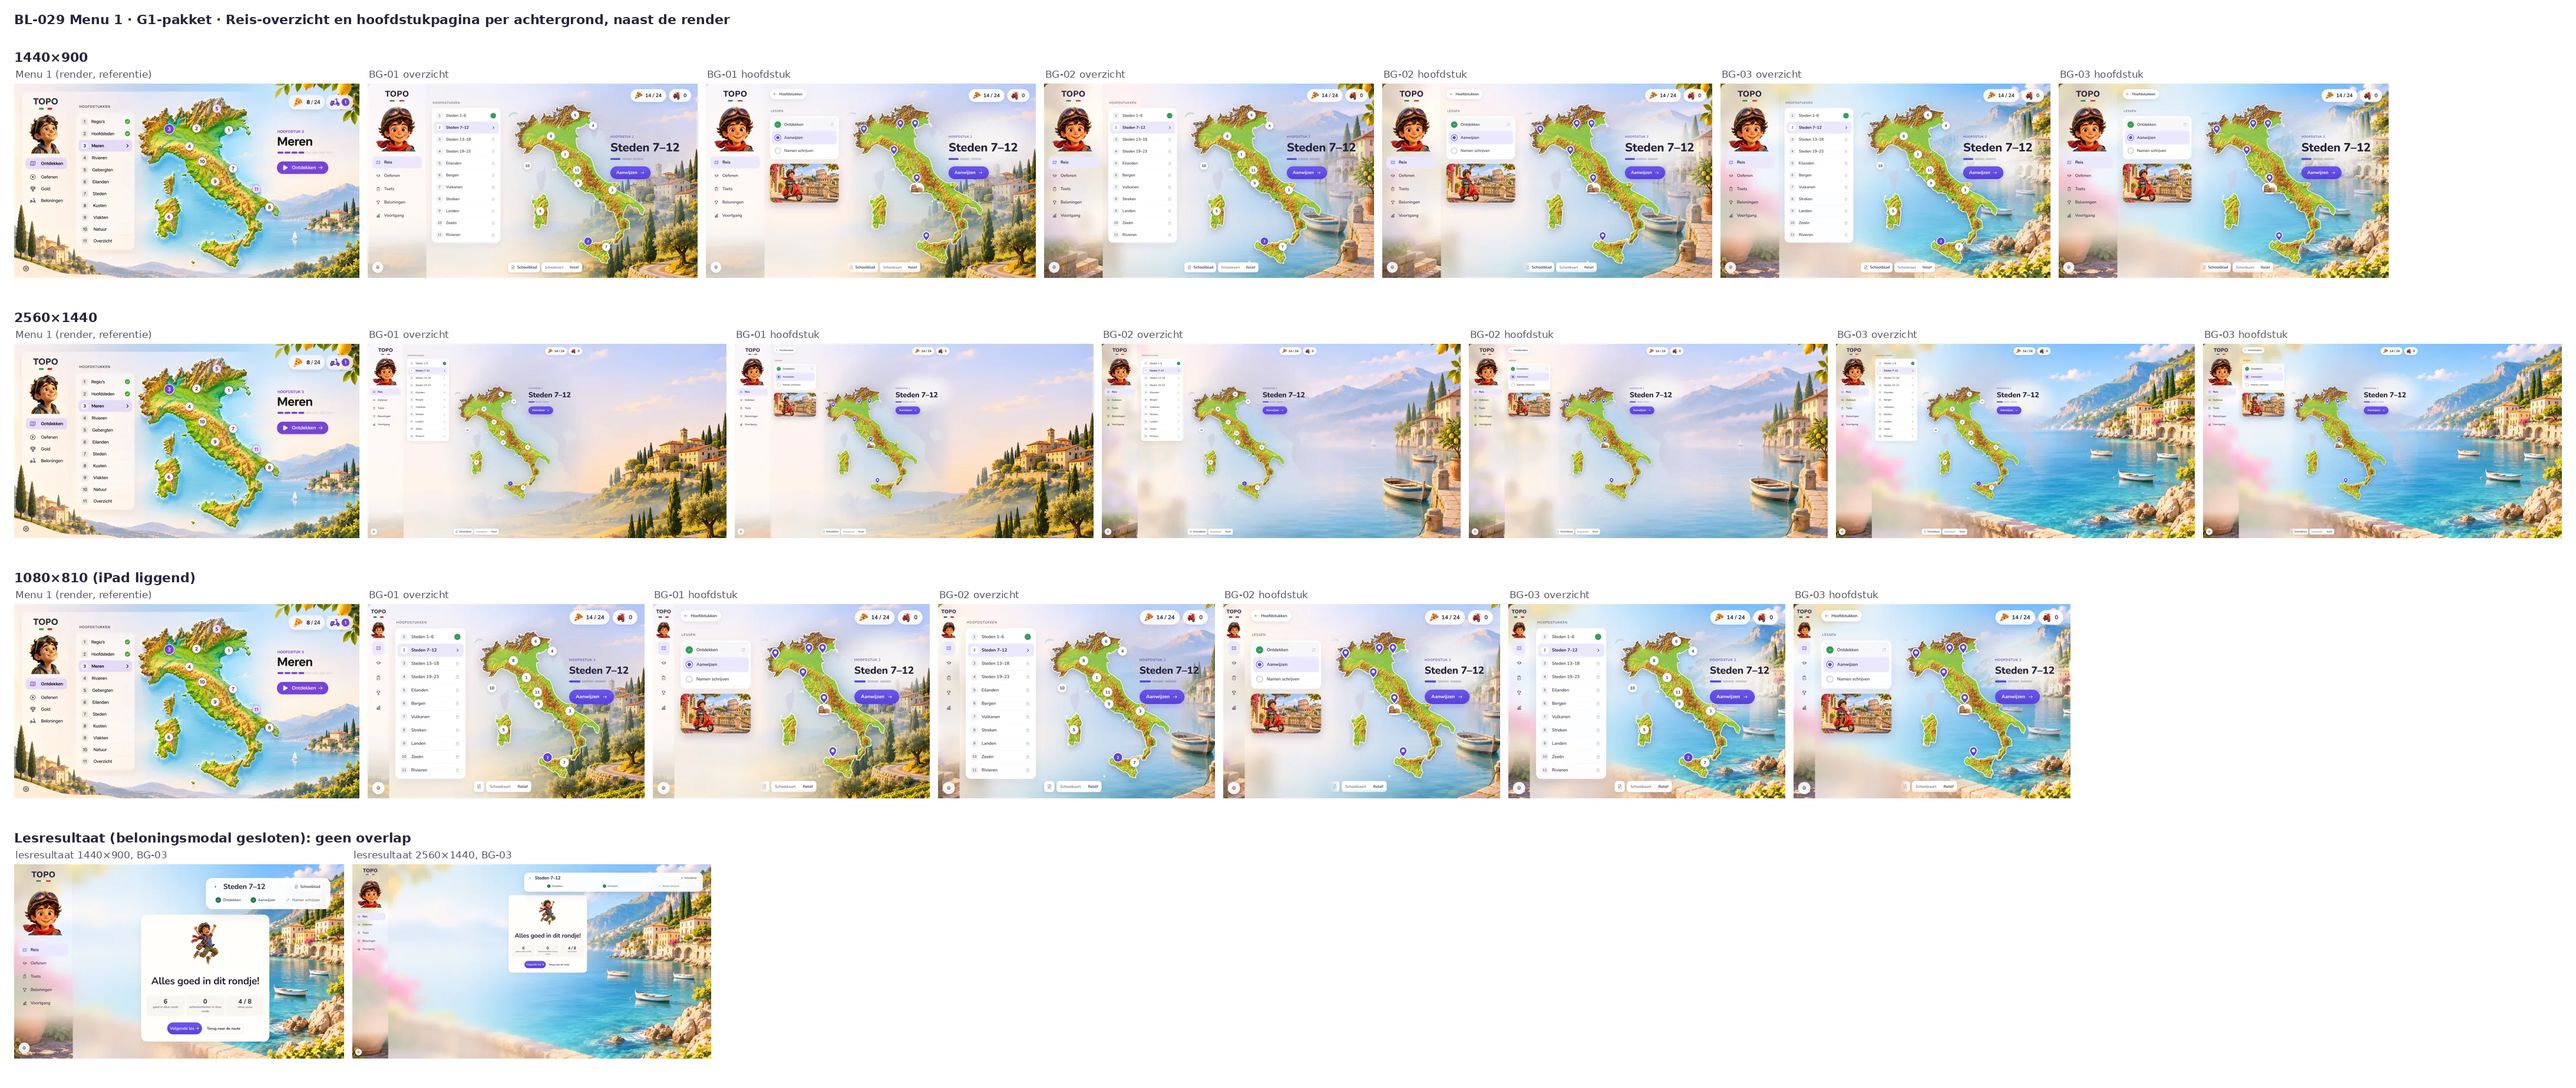
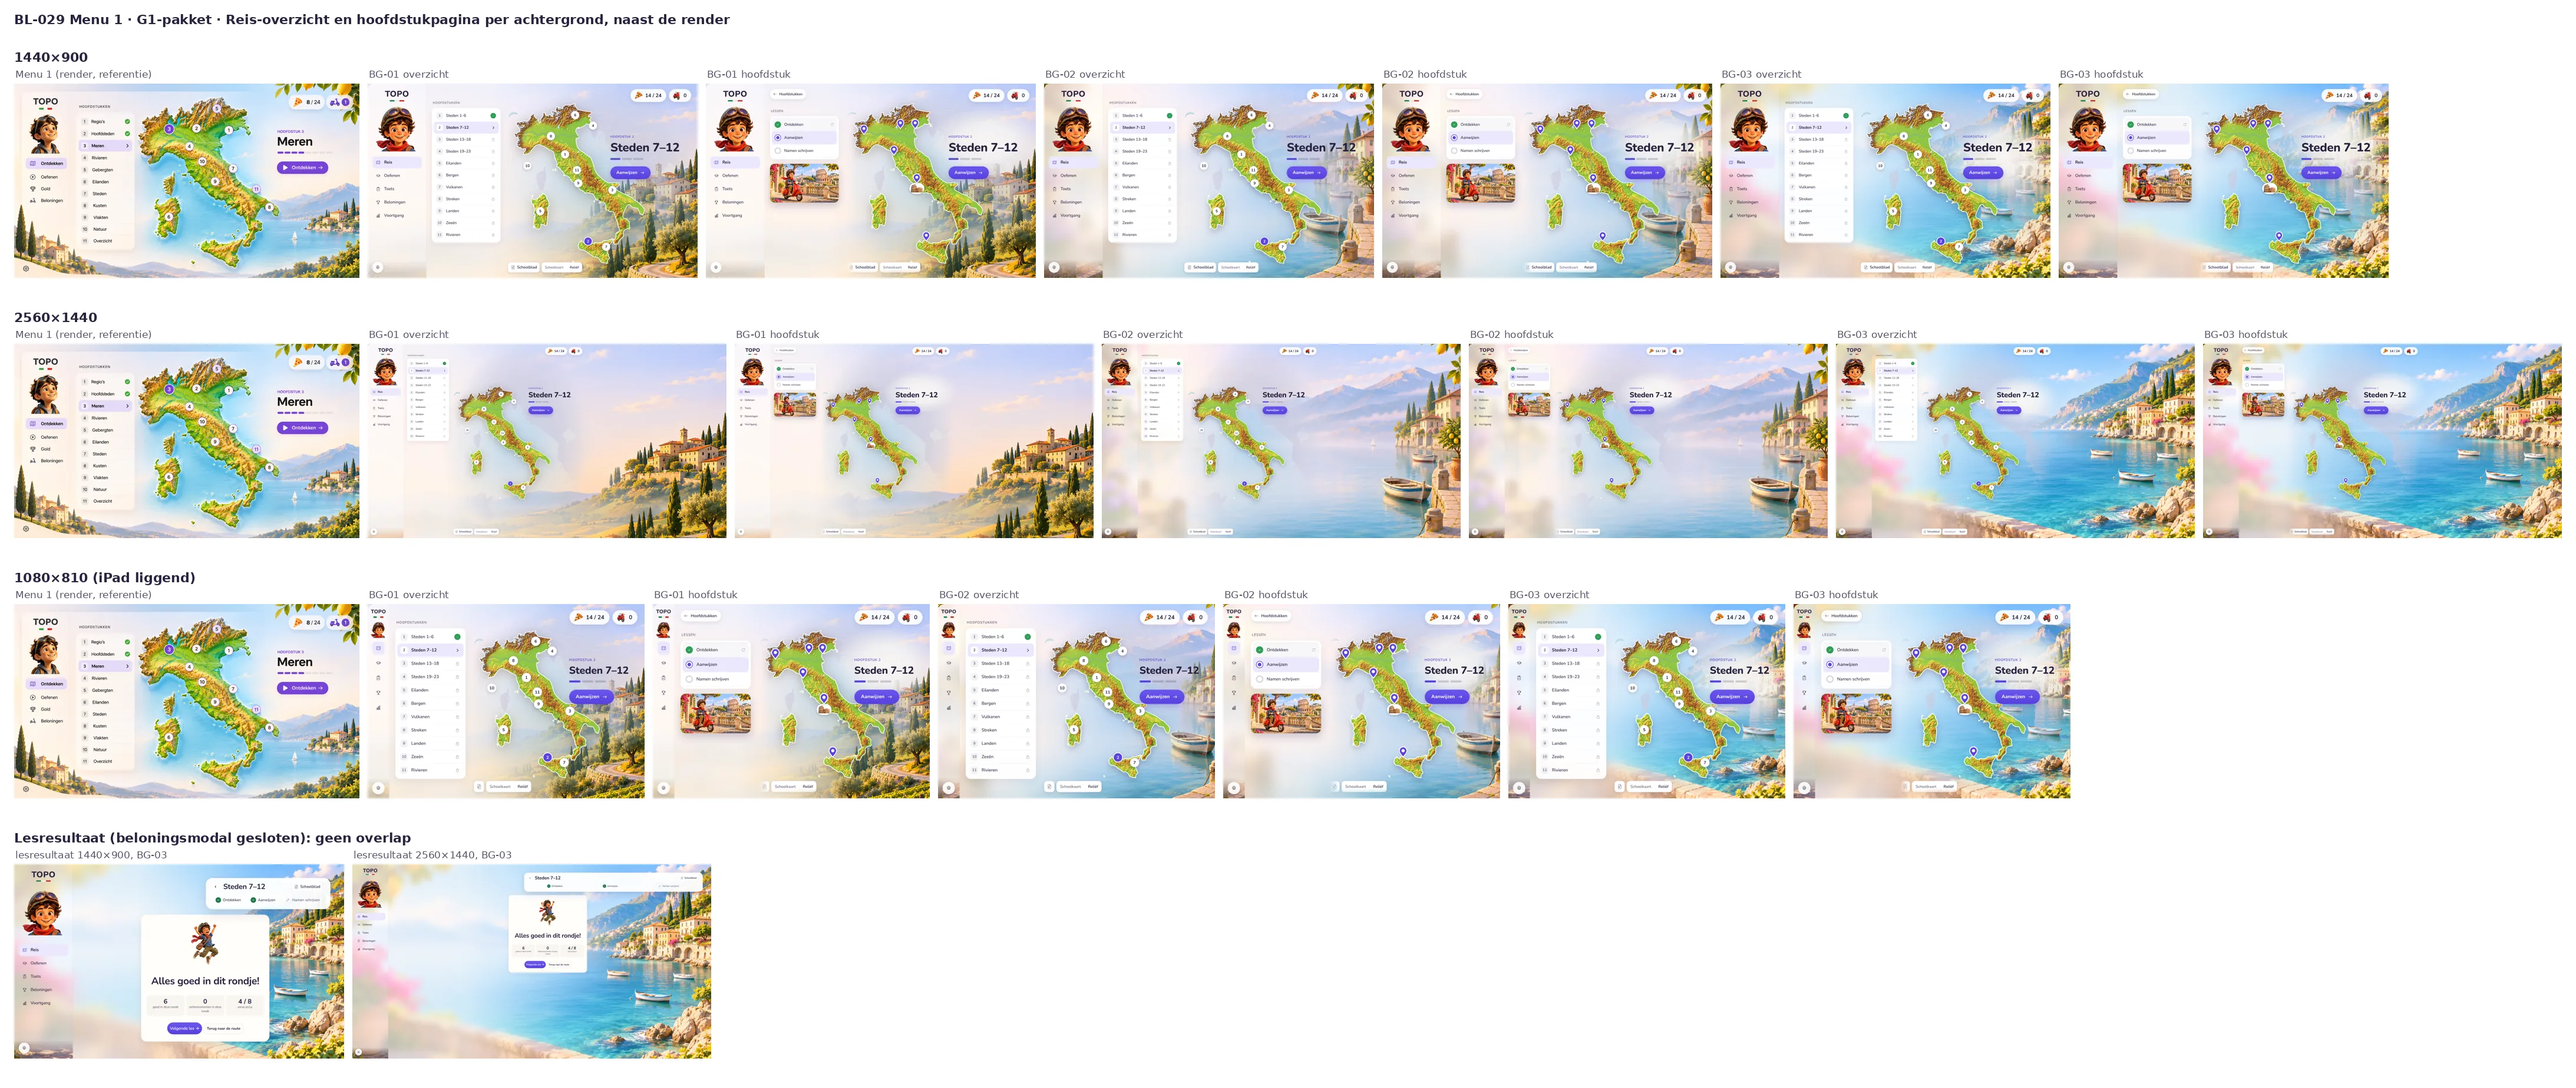
BL-029: G1-pakket klaar (design GO-voorstel, evaluator alleen fps open); STATE, RUNLOG, les
Claude-Session: https://claude.ai/code/session_016PmNfc6UjbDboNzqxh3iej

diff --git a/ops/STATE.md b/ops/STATE.md
@@ -19,11 +19,11 @@ M0 Consolidatie, deadline vr 20 nov · **GO 13-11**
 | `arch/v3-runtime` | Migratievoorstel en landpakket | 10-11 |
 
 ## Volgende taak
-**BL-029 Menu 1 (r5, 19-11):** één werkruimte met verloop op alle schermen en in de les (`scripts/v3/menu1.css`, terugval `TOPO_V3_MENU='2'`). Design r1–r3 NO-GO, alle must-fixes verwerkt (r3: kaart weer ~31% van het scherm, markers wijken voor titel/knop). QA `node scripts/qa-v3-menu1.mjs`: 0 fouten. **G1-contactsheet: `ops/reports/BL-029-G1.webp`** (1440/2560/1080 × BG-01/02/03, overzicht + hoofdstuk naast Menu 1, lesresultaat 1440/2560).
-- **Backdrop-filters zichtbaar:** 2 op de zes schermen (zijbalk + werkruimte), 1–2 in de les (vraag, modal, resultaat). Nino 184×200 overal, ook in de les (iPad-rail 60×64). Kennis-paspoort standaard dicht.
-- **FPS 1080×810, CPU 4×:** Voortgang scrollen 59 (de hoofdstuklijst scrollt op 1080 niet: alle 11 rijen passen). Schermwissel 30–49 fps (Menu 2: 17–50); zonder de ene lange frame (kaartkopie, 0,2–1,2 s) 51–56. Haalt ≥ 50 niet → BL-031.
-- **Gloed (tijdelijk, tot nieuwe achtergronden):** BG-03 overzicht en Voortgang-titel; hoofdstukpagina altijd (titel faalde zonder gloed op alle BG's).
-- **Volgende:** design-critic r4 + evaluator r2 (lopen) → G1 Dennis. BL-032 (nieuwe BG's) wacht: op main nog dezelfde bestanden (19-11). Niet mergen naar main; G4 bij Dennis.
+**BL-029 Menu 1: G1-PAKKET KLAAR (19-11, HEAD op branch).** Eén werkruimte met verloop op alle schermen en in de les (`scripts/v3/menu1.css`, terugval `TOPO_V3_MENU='2'`). **Contactsheet: `ops/reports/BL-029-G1.webp`** (1440/2560/1080 × BG-01/02/03, overzicht + hoofdstuk naast `docs/v3/renders/Menu 1.png`, lesresultaat 1440/2560).
+- **Oordelen:** design-critic r5 **GO-voorstel** (`ops/reports/design-BL-029.md`); evaluator r3 PASS op crit. 2, 3, 5, 6 en Grenzen, **FAIL alleen crit. 4 (fps)** (`ops/reports/eval-BL-029.md`). QA `qa-v3-menu1.mjs` 0 fouten (6 maten incl. 1366×768 × 3 BG × 6 schermen, les, lesresultaat op 4 maten); `qa-v3-glas2` (Menu 2) groen; lint en test 0.
+- **Gemeten:** blur 2 per scherm, 1 in de les; Nino 184×200 overal (iPad 60×64); paspoort dicht; kaart Italië 30–32% van het scherm op 1080–1440 (1920 26%, 2560 15% = BL-033).
+- **Besluit Dennis nodig (G1):** (1) GO op Menu 1; (2) fps-criterium: schermwissel 32–52 fps bij CPU 4× (Menu 2: 17–50; zonder de ene lange frame 54–58), scrollen 59–60 → accepteren en oplossen in BL-031, of eerst BL-031.
+- **Daarna:** BL-032 zodra de nieuwe BG-bestanden op main staan (19-11: nog gelijk). Niet mergen naar main; G4 bij Dennis.
 - **BL-028 klaar (16-11, PASS):** een toets geeft geen pizzapunten/ritten/goud meer, het dagdoel telt wel. Gevolg voor BL-004b (night/2026-11-16): `IPAD_TEST.md` gaat ervan uit dat de Toets ritten geeft; ritten komen nu alleen uit Oefenen/Les.
 - **Nachtscript (op deze branch, `454c203`):** bij een limiet wachten tot reset + 2 min en hervatten tot 07:00; Codex-flags uit `codex exec --help`. Werkt pas na een PR naar `main` (akkoord Dennis). Nodig: uitvoer van `codex exec --help` op de Mac mini.
 

diff --git a/ops/reports/eval-BL-029.md b/ops/reports/eval-BL-029.md
@@ -144,3 +144,24 @@ VERDICT: **FAIL** (resten: fps, plus de lesbalk-overlap en AA op 1280/1366 bij e
 4. Voor criterium 4: halen, of Dennis besluit het criterium te wijzigen of te splitsen (BL-031).
 
 **Buiten scope (één regel):** het vergrendelde lesstap-label "Namen schrijven" (opacity .6, 4,0 op 1080) en de kaart-glyph "▲" bestonden al en staan ook zo in Menu 2.
+
+---
+
+# Ronde 3 (commit `d94cd7c`, 19-11, gericht)
+
+Getoetst: criteria 3, 5 en Grenzen op 1280×800 en 1366×768 (BG-01/02/03, 6 schermen, plus lesvraag en lesresultaat), met een steekproef op 1440×900 BG-02.
+- De preview is niet opnieuw gebouwd. Wel gecontroleerd dat hij bij de commit hoort: `menu1.css`, `reis.js`, `voortgang.js` en `shell.js` zitten er letterlijk in.
+- `npm test` heb ik niet zelf gedraaid (de hoofdsessie meldt de uitkomst). In ronde 2 was hij 66/66 groen; criterium 6 hangt af van die melding.
+
+VERDICT: **FAIL**, alleen nog op criterium 4 (fps). Alle andere getoetste punten zijn PASS.
+
+| # | Criterium | Resultaat | Bewijs |
+|---|---|---|---|
+| 2 | Screenshots | **PASS** (oordeel G1) | Ongewijzigd t.o.v. ronde 2 |
+| 3 | Lesresultaat, Nino, paspoort | **PASS** | De lesbalk ligt boven de resultaatkaart, 24 px vrij op 1280×800, 1366×768 en 1440×900 (alle BG). Nino is 184×200 in les en resultaat. Paspoort dicht (39/39) |
+| 4 | FPS ≥ 50 en blur ≤ 3 | **FAIL** | Niet opnieuw gemeten (niet gewijzigd). Ronde 2: wissels 32–52 fps, besluit bij Dennis (BL-031). Blur is 2 in alle 39 metingen en in de les |
+| 5 | AA, ≥ 13 px, knoppen ≥ 44 | **PASS** | 0 fouten op 1280×800 en 1366×768 × 3 BG × 6 schermen, en in lesvraag en lesresultaat (`Voortgang` in de les-zijbalk en de Voortgang-titel op BG-02 halen nu AA). Steekproef 1440 BG-02 (overzicht, hoofdstuk, Voortgang, les): 0 fouten |
+| 6 | Lint en test | **PASS** onder voorbehoud | Lint 0 in ronde 2; `npm test` volgt via de hoofdsessie |
+| G | Grenzen | **PASS** | Geen overlap, geen horizontale scroll, geen page errors |
+
+**Buiten scope (één regel):** in de les zijn de staplabels op 1280×800 afgekapt ("Ontdekk…", "Aanwijz…"), en op 1366×768 staat de lesbalk na het scrollen naar het resultaat half boven de rand. Geen overlap, maar wel een punt voor de iPad/G3-check (screenshots `lesres-1280-bg01.png` en `lesres-1366-bg02.png` in de scratchpad).

diff --git a/ops/LEARNINGS.md b/ops/LEARNINGS.md
@@ -35,3 +35,4 @@ Dit is waar het systeem slimmer wordt. Elke FAIL, elke correctie van Dennis en e
 - 2026-11-15 · Een geschaald "ongebruikt" asset in het dieet is een geheugenafspraak: wie het in gebruik neemt, past het dieet aan (niet stil een placeholder laten staan).
 - 2026-11-15 · Per blok sturen op losse metingen (kaart-%, scène-%, rijen) leverde een build zonder samenhang op. Bij een visuele richting eerst één compositie laten goedkeuren (statisch, met de renders ernaast) en pas daarna meten en bouwen; designverkenning hoort in de Claude-app, niet in een build-loop.
 - 2026-11-16 · "Pixel-identiek" bij een refactor: vergelijk tegen een referentiebuild = basis + de tussentijdse functionele commits, en neem breakpoint-grenzen (1024/1279/1280), de les en gescrolde toestanden op. Een set zonder die toestanden miste drie regressies van weggehaalde `!important`.
+- 2026-11-19 (BL-029): een QA die tekst verbergt en de achtergrond meet, ziet geen laag ÓVER de tekst; meet ook de getekende pixels (zichtbaar vs verborgen). En test korte schermen (1366×768, 1280×800): daar scrollde de pagina en schoof een vaste balk over het lesresultaat. Een fix die één fout oplost (marker onder knop) mag de kern (kaart eerst) niet halveren: meet het kaartaandeel mee.

diff --git a/ops/RUNLOG.md b/ops/RUNLOG.md
@@ -40,3 +40,4 @@ Formaat:
 2026-11-15 22:30 | claude/opus | taak | nachtfix-main | klaar | laag | PR #106 (nightly.sh-fix + BL-001b/BL-002 op review) gesquasht naar main met akkoord Dennis
 2026-11-16 04:20 | builder/sonnet+evaluator/opus | taak | BL-016d/e, BL-023 | PASS | hoog | BL-016d/e r2 PASS; BL-023 r1 FAIL (les ≥1280, 1024/1280-kaart, hoofdstukpaneel: weggehaalde !important), r2 PASS (214/240 identiek, rest bedoeld)
 2026-11-16 09:00 | claude/opus+evaluator/opus | taak | BL-028, nightly | PASS | laag | Toets geeft geen pizzapunten meer (05-app-kern grade); 4 bevriezingstests via restoreExamReward; nightly.sh wacht na limiet en hervat, Codex-flags uit --help
+2026-11-19 | claude/opus+design-critic/opus+evaluator/opus | taak | BL-029 | G1-klaar (eval FAIL alleen fps) | hoog | Menu 1 op alle schermen; design r1–r4 NO-GO → r5 GO-voorstel; eval r1–r2 FAIL (o.a. werkruimte over lesresultaat) → r3 alleen fps; contactsheet ops/reports/BL-029-G1.webp
